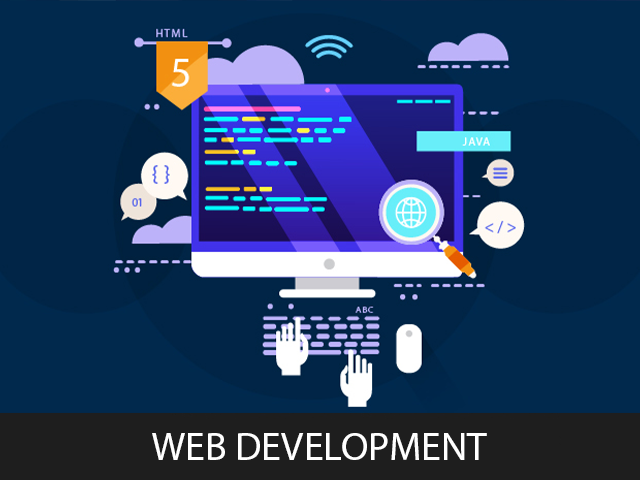
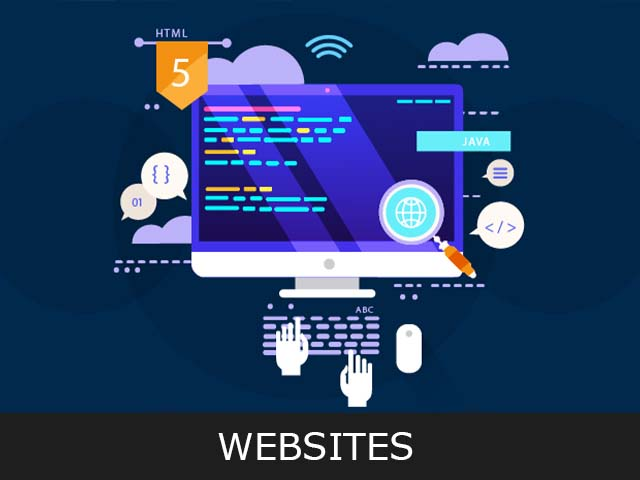
Update - some clean up before making req changes

diff --git a/index.html b/index.html
@@ -222,8 +222,7 @@
 
 
 
-	<!-- Speciality -->
-	<div class="w3threespecialityw3ls" id="w3threespecialityw3ls">
+	<!-- <div class="w3threespecialityw3ls" id="w3threespecialityw3ls">
 		<div class="container">
 
 			<h2>Products I've built</h2>
@@ -234,15 +233,13 @@
 							<img src="images/special-3.jpg" alt="Couture">
 						</div>
 						<figcaption>
-							<h3>WEB DEVELOPMENT</h3>
+							<h3>WEBSITES</h3>
 						</figcaption>
 					</figure>
 				</div>
 
-				<!-- The Modal -->
 				<div id="modal1" class="myModal">
 
-				  <!-- Modal content -->
 				  <div class="myModal-content">
 					<div class="myModal-header">
 				      <span class="modalClose">&times;</span>
@@ -272,10 +269,8 @@
 					</figure>
 				</div>
 
-				<!-- The Modal -->
 				<div id="modal2" class="myModal">
 
-				  <!-- Modal content -->
 				  <div class="myModal-content">
 					<div class="myModal-header">
 				      <span class="modalClose">&times;</span>
@@ -304,10 +299,8 @@
 					</figure>
 				</div>
 
-				<!-- The Modal -->
 				<div id="modal3" class="myModal">
 
-				  <!-- Modal content -->
 				  <div class="myModal-content">
 					<div class="myModal-header">
 				      <span class="modalClose">&times;</span>
@@ -325,7 +318,7 @@
 
 				</div>
 
-				<!--<div class="col-md-4 col-sm-4 w3threespecialityw3ls-grid grid4" id="modelTrigger4">
+				<div class="col-md-4 col-sm-4 w3threespecialityw3ls-grid grid4" id="modelTrigger4">
 					<figure>
 						<div class="w3threespecialityw3ls-info">
 							<img src="images/special-4.jpg" alt="Couture">
@@ -413,7 +406,7 @@
 				    </div>
 				  </div>
 
-				</div> -->
+				</div> 
 
 
 				<div class="clearfix"></div>
@@ -422,8 +415,7 @@
 			<br><br>
 			
 		</div>
-	</div>
-	<!-- //Speciality -->
+	</div> -->
 
 	<!-- Portfolio -->
 	<div class="portfolio" id="experience">
@@ -453,12 +445,63 @@
 				<section class="agileits w3layouts">
 					<h4> </h4>
 					<div class="gallery-grids">
+
+						<div class="col-md-4 col-sm-4 col-md-offset-1 col-sm-offset-1 custom gallery-top">
+							<button class="md-trigger" data-modal="exp-modal-1" onclick="on()" style="background-color: Transparent; border: none; padding: 0px;">
+								<figure class="effect-bubba">
+									<img src="images/experience-5.jpg" alt="" class="img-responsive">
+									<figcaption>
+										<h4>Technical Product Manager</h4>
+									</figcaption>
+								</figure>
+							</button>
+						</div>
+
+						<div class="md-modal md-effect-1" id="exp-modal-1">
+							<div class="modal-dialog modal-lg">
+							    <div class="md-content">
+							    	<div class="modal-header" style="padding: 0.7em; opacity: 1; background: rgba(0,0,0,0.1);">
+							    		<h2>JPMorgan Chase &amp; Co.<h2>
+							    	</div>
+							        
+							        <div class="modal-body" style="max-height: calc(100vh - 210px); overflow-y: auto;">
+							        	<div style="text-align: left; ">
+							        		<strong> Technical Product Manager </strong> (Jan 2018 – Dec 2021)
+
+								            <ul>
+								            	<li>Worked on a desktop-based application to design and develop significant components, optimize the existing logic, fix production issues, migration from legacy services to REST API and modernization.</li>
+								            	<li>Setup centralized logging for applications using Splunk, to detect anomalies, and developed cleanup scripts</li>
+								            	<li>Developed a utility for the business users to perform data fixes without technical support</li>
+								            	<li>Developed a web application for skill assessment and learning, end-to-end.</li>
+								            	<li>Enhanced performance of a nightly job by 60% by implementing changes in the algorithm.</li>
+								            	<li>Handled application deployments while reporting and fixing issues across various environments through CI/CD</li>
+								            </ul>
+								            <br>
+								        	<strong> Software Engineer Intern </strong> (Jan 2017 – June 2017)
+
+								            <ul>
+								                <li>Developed a web application to detect credit card frauds by applying rules on the transactions</li>
+								                <li>Automated the process of transaction retrieval, fraud detection, push notification</li>
+								                <li>Developed an alternative solution: A neural network algorithm in Python to detect credit card frauds</li>
+								            </ul>
+								            <b>Technologies used:</b> PHP, MySQL, Python, HTML, CSS, JS, Bootstrap
+								            
+								        </div>
+								        
+							        </div>
+							        <div class="modal-footer" style="padding: 0.4em;">
+							        	<button class="btn btn-default md-close" onclick="off()">Close</button>
+							        </div>
+							    </div>
+							</div>
+						</div>
+
 						<div class="col-md-4 col-sm-4 col-md-offset-1 col-sm-offset-1 custom gallery-top">
 							<button class="md-trigger" data-modal="exp-modal-1" onclick="on()" style="background-color: Transparent; border: none; padding: 0px;">
 								<figure class="effect-bubba">
 									<img src="images/experience-1.jpg" alt="" class="img-responsive">
 									<figcaption>
-										<h4>Software Engineer</h4>
+										<h4>Technical Product Manager</h4>
 									</figcaption>
 								</figure>
 							</button>
@@ -576,7 +619,7 @@
 						    </div>
 						</div>
 
-						<div class="col-md-4 col-sm-4 col-md-offset-1 col-sm-offset-1 custom gallery-top">
+						<!-- <div class="col-md-4 col-sm-4 col-md-offset-1 col-sm-offset-1 custom gallery-top">
 							<button class="md-trigger" data-modal="exp-modal-4" onclick="on()" style="background-color: Transparent; border: none; padding: 0px;">
 								<figure class="effect-bubba">
 									<img src="images/experience-4.jpg" alt="" class="img-responsive">
@@ -608,7 +651,7 @@
 								    </div>
 								</div>
 						    </div>
-						</div>
+						</div> -->
 						
 						<div class="clearfix"></div>
 					</div>
@@ -834,7 +877,7 @@
 
 	<!-- Portfolio -->
 	<div class="portfolio" id="portfolio">
-		<h3>Portfolio</h3>
+		<h3>Portfolio - Products I worked on</h3>
 
 		<div class="tabs tabs-style-bar w3layouts agileits">
 			<nav>
